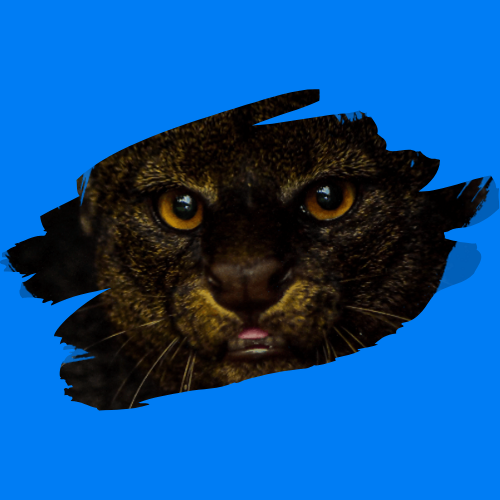
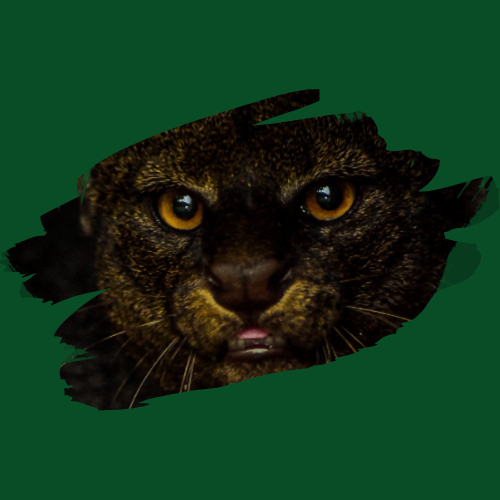
base color change

diff --git a/css/main.css b/css/main.css
@@ -4,13 +4,17 @@
 @import url("fonts.css");
 
 /* ===================================================================
- *  02. base style overrides - (_document-setup)
+:root{
+  --base-color: #007DF4; Color Blue
+}
  *
  * ------------------------------------------------------------------- */
+:root{
+  --base-color: #094D26;
+}
 
 html {
   font-size: 10px;
-  scroll-behavior: smooth;
 }
 
 @media only screen and (max-width: 1024px) {
@@ -60,7 +64,7 @@ a:visited {
 
 a:hover,
 a:focus {
-  color: #007DF4;
+  color: #094D26;
 }
 
 
@@ -309,7 +313,7 @@ ul.disc li::before {
   width: 8px;
   height: 8px;
   border-radius: 50%;
-  background: #007DF4;
+  background: #094D26;
   position: absolute;
   left: -17px;
   top: 11px;
@@ -318,7 +322,7 @@ ul.disc li::before {
 
 dt {
   margin: 0;
-  color: #007DF4;
+  color: #094D26;
 }
 
 dd {
@@ -404,49 +408,6 @@ img.pull-left {
 
 
 /* ------------------------------------------------------------------- 
- * tables - (_document-setup.scss)  
- * ------------------------------------------------------------------- */
-
-table {
-  border-width: 0;
-  width: 100%;
-  max-width: 100%;
-  font-family: "muli-regular", sans-serif;
-}
-
-th,
-td {
-  padding: 1.5rem 3rem;
-  text-align: left;
-  border-bottom: 1px solid #E8E8E8;
-}
-
-th {
-  color: #151515;
-  font-family: "montserrat-bold", sans-serif;
-}
-
-td {
-  line-height: 1.5;
-}
-
-th:first-child,
-td:first-child {
-  padding-left: 0;
-}
-
-th:last-child,
-td:last-child {
-  padding-right: 0;
-}
-
-.table-responsive {
-  overflow-x: auto;
-  -webkit-overflow-scrolling: touch;
-}
-
-
-/* ------------------------------------------------------------------- 
  * pace.js styles - center simple  - (_document-setup.scss)
  * ------------------------------------------------------------------- */
 
@@ -489,7 +450,7 @@ td:last-child {
   right: 100%;
   height: 100%;
   width: 100%;
-  background: #007DF4;
+  background: #094D26;
 }
 
 .pace.pace-inactive {
@@ -795,8 +756,8 @@ button.stroke,
 
 button.stroke:hover,
 .button.stroke:hover {
-  border: 0.3rem solid #007DF4;
-  color: #007DF4;
+  border: 0.3rem solid #094D26;
+  color: #094D26;
 }
 
 button.pill,
@@ -1022,7 +983,7 @@ input::-moz-focus-inner {
 }
 
 .stats-tabs li a:hover {
-  color: #007DF4;
+  color: #094D26;
 }
 
 .stats-tabs li a em {
@@ -1054,7 +1015,7 @@ h1.intro-header::before {
   content: "";
   height: 2px;
   width: 70px;
-  background-color: #007DF4;
+  background-color: #094D26;
   position: absolute;
   left: 0;
   bottom: 0;
@@ -1096,7 +1057,7 @@ h1.intro-header::before {
 #header {
   width: 100%;
   height: 72px;
-  background-color: #007df4;
+  background-color: #094D26;
   position: fixed;
   border-radius: 5px;
   left: 50%;
@@ -1374,7 +1335,7 @@ h1.intro-header::before {
   width: 100%;
   height: 786px;
   min-height: 786px;
-  background-color: #007df4;
+  /*background-color: #094D26;*/
   position: relative;
   display: table;
 }
@@ -1798,7 +1759,7 @@ html[data-useragent*='MSIE 10.0'] .home-scrolldown,
 }
 
 .about-features .feature .icon i {
-  color: #007DF4;
+  color: #094D26;
   font-size: 4.8rem;
 }
 
@@ -1880,7 +1841,7 @@ html[data-useragent*='MSIE 10.0'] .home-scrolldown,
   line-height: 54px;
   text-align: center;
   border-radius: 50%;
-  background-color: #007DF4;
+  background-color: #094D26;
   box-shadow: 0 0 0 15px #ffffff;
   z-index: 500;
   position: absolute;
@@ -2013,7 +1974,7 @@ html[data-useragent*='MSIE 10.0'] .home-scrolldown,
 /* Contact Form Styles */
 
 #contact-form {
-  background-color:rgb(0, 126, 244);
+  background-color:#094D26;
   padding: 10px 20px 30px 20px;
   width:100%;
   float: left;
@@ -2031,6 +1992,9 @@ html[data-useragent*='MSIE 10.0'] .home-scrolldown,
   grid-area: 1 / 2 / 2 / 3;
   text-align: center;
   margin-top: 60px;
+}
+.contact-form-title h1 h4{
+  color: #E5E6E7 !important;
 }
 .contact-form-form{
   grid-area: 2 / 1 / 6 / 4;

diff --git a/index.html b/index.html
@@ -60,7 +60,7 @@
 
    <!-- home
    ================================================== -->
-   <section id="home" data-parallax="scroll"  data-natural-width=3000 data-natural-height=1500>
+   <section id="home" data-parallax="scroll" data-image-src="images/yaguarundí.png" data-natural-width=3000 data-natural-height=1500>
 
         <div class="overlay"></div>
         <div class="home-content">        
@@ -86,7 +86,7 @@
                     </div>                    
                 </div>
                 <div class="home-image-right">
-                    <img src="images/yaguarundí_2.png" data-aos="fade-up">
+                    <img src="images/yaguarundí_2.png" data-aos="fade-up" data-parallax="scroll">
                 </div>
              
             </div>
